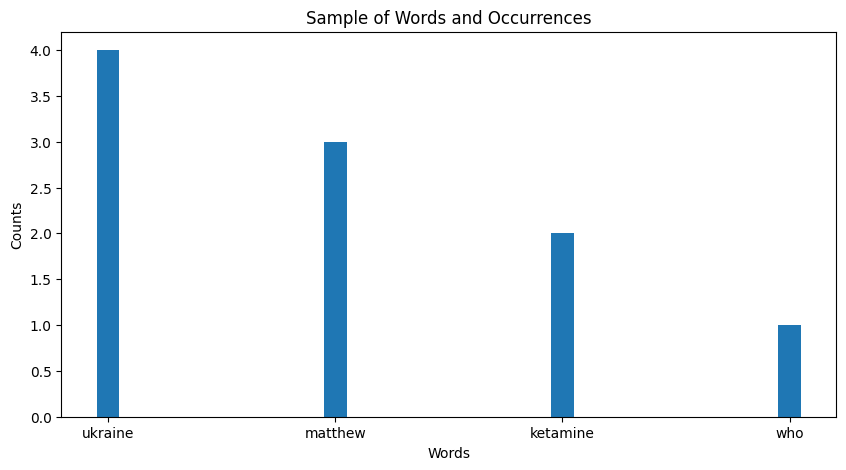
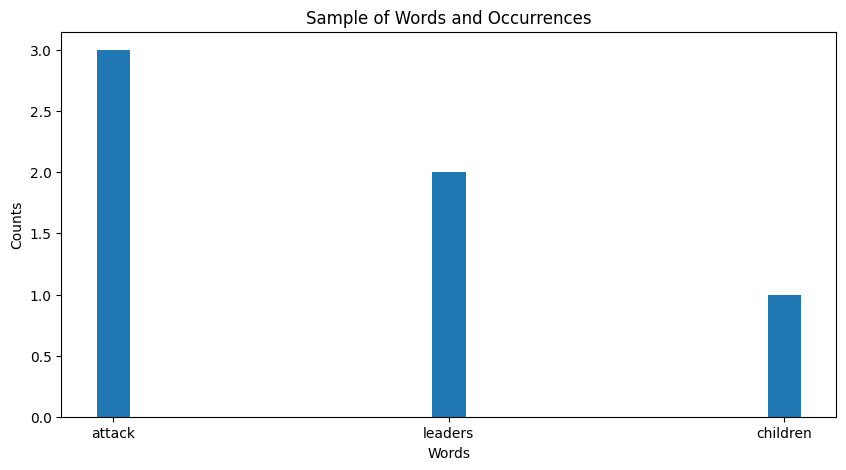
Improved Reporting

diff --git a/src/processing.py b/src/processing.py
@@ -17,7 +17,7 @@ punctuation = list(string.punctuation)
 stops = set([
   'after','the', 'a', 'an', 'i', 'he', 'she', 'they', 'to', 'of', 'it', 'from', 's', 'is', 'in', 'on', 'with', 'for', 
   'how', 'as', 'at', 'be', 'have', 'has', 'had', 'and', 'are', 'by', 'says', 'over', 'us', 'can', 'what', 'why', 'about',
-  'where', 'around', 'up'
+  'where', 'around', 'up', 'who', 'that', 'new', 'among'
 ])
 
 ### PROCESSING FUNCTIONS ###
